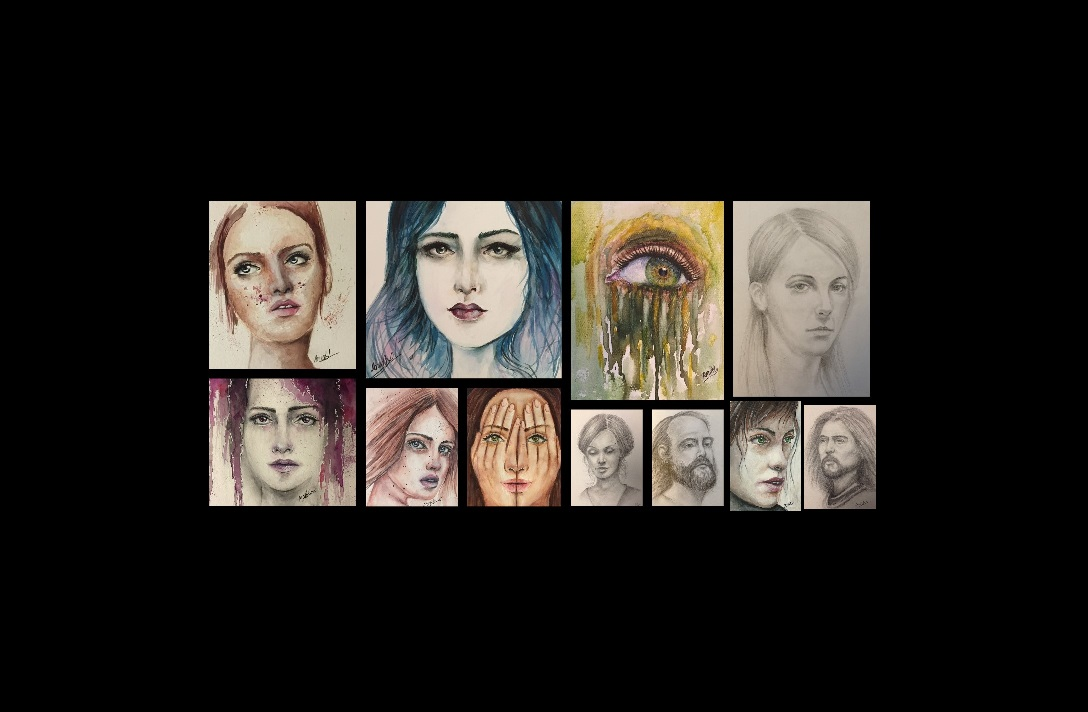
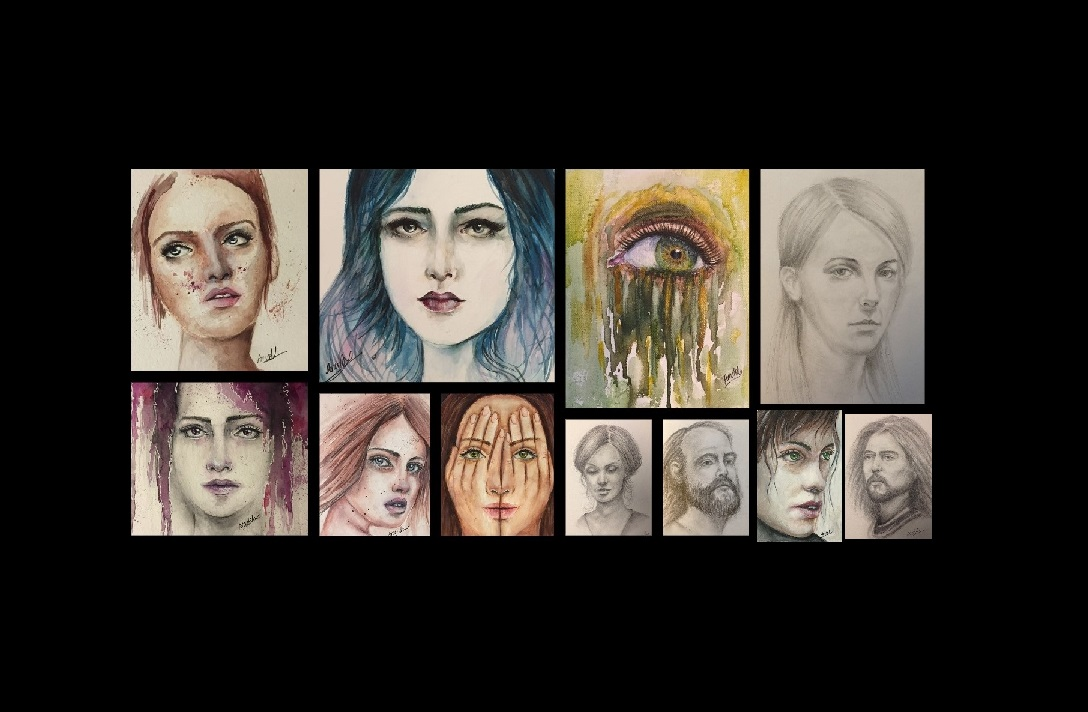
Menu bar modified

diff --git a/index.html b/index.html
@@ -80,7 +80,7 @@
     background-size: cover;
     min-height:100%;
     background-image: url('collage-black-big.jpg'); 
-    opacity: 0.8;
+    opacity: 0.6;
            
     }
       
@@ -92,7 +92,7 @@
     background-size: cover;
     min-height:100%;
     background-image: url('collage-black-small.jpg'); 
-    opacity: 0.8;
+    opacity: 0.6;
            
     }
       
@@ -110,10 +110,19 @@
     } 
       }
       
+    @media (min-width: 768px) {
+  .navbar-nav.navbar-center {
+    position: absolute;
+    left: 50%;
+    transform: translatex(-50%);
+  }
+}
+      
      
   </style>
 </head>
 <body>
+
 
 <nav class="navbar navbar-inverse">
   <div class="container-fluid" >
@@ -123,16 +132,16 @@
         <span class="icon-bar"></span>
         <span class="icon-bar"></span>  
       </button>
-      <a class="navbar-brand" href="#"><span style="font-family:Brush Script MT,cursive ; font-size: 1.5em">Arasteh</span></a>       
+      <span class="navbar-brand" style="font-family:Brush Script MT,cursive ; font-size: 2em">Arasteh</span>      
     </div>
       
     <div class="collapse navbar-collapse" id="myNavbar">
-      <ul class="nav navbar-nav">
+      <ul class="nav navbar-nav navbar-center">
         <li class="active"><a href="#">Home</a></li>
-        <li><a href="#about">About</a></li>
+        <li><a href="#about" ><i class="fa fa-user"></i> About</a></li>
         
         <li class="dropdown">
-        <a class="dropdown-toggle" data-toggle="dropdown" href="#">Gallery
+        <a class="dropdown-toggle" data-toggle="dropdown" href="#"><i class="fa fa-th"></i> Gallery
         <span class="caret"></span></a>
         <ul class="dropdown-menu">
           <li><a href="drawings.html">Pencil Drawings</a></li>
@@ -151,27 +160,14 @@
 
     
     
-<!-- new Parallax Image -->  
-<div class="container-fluid bgimg1 w3-hide-small  " id="home">
-    <!--
-    <div class="row parallaxtxt">
-        <div class="col-sm-12" style= "margin:20% 0 0 20%;">
-            <span style="font-size:3em;font-family:Brush Script MT,cursive;color:white">The purpose of art is washing the dust of daily life off our souls.
-            </span><br><span style="font-size:1.5em;font-family:Brush Script MT, cursive;color:white">Pablo Picasso</span>
-        </div> 
-    </div>
-    -->
+<!-- Parallax Image for big and medium screen -->  
+<div class="container-fluid bgimg1 w3-hover-opacity-off w3-hide-small  " id="home">
+   
 </div>  
-    
-<div class="container-fluid bgimg2 w3-hide-medium w3-hide-large " id="home">
-    <!--
-    <div class="row parallaxtxt">
-        <div class="col-sm-12" style= "margin:20% 0 0 20%;">
-            <span style="font-size:3em;font-family:Brush Script MT,cursive;color:white">The purpose of art is washing the dust of daily life off our souls.
-            </span><br><span style="font-size:1.5em;font-family:Brush Script MT, cursive;color:white">Pablo Picasso</span>
-        </div> 
-    </div>
-    -->
+
+<!-- Parallax Image for small screen -->     
+<div class="container-fluid bgimg2 w3-hover-opacity-off w3-hide-medium w3-hide-large " id="home">
+   
 </div>   
 <!-- end new Parallax Image -->
     

diff --git a/test.html b/test.html
@@ -14,30 +14,49 @@ body, html {
     line-height: 1.8;
 }
 
-/* Create a Parallax Effect */
-.bgimg-1 {
-    background-attachment: fixed;
-    background-position: center;
-    background-repeat: no-repeat;
-    background-size: cover;
-}
-
-/* First image (Logo. Full height) */
-.bgimg-1 {
-    background-image: url('Collage%20big-resized.jpg');
-    min-height: 100%;
-}
 
 
 .w3-wide {letter-spacing: 10px;}
 .w3-hover-opacity {cursor: pointer;}
 
-/* Turn off parallax scrolling for tablets and phones */
-@media only screen and (max-device-width: 1024px) {
-    .bgimg-1 {
-        background-attachment: scroll;
+.bgimg1 {
+    
+    background-attachment:fixed;
+    background-position: center;
+    background-repeat: no-repeat;
+    background-size: cover;
+    min-height:100%;
+    background-image: url('collage-black-big-caption.jpg'); 
+    opacity: 0.8;
+           
     }
-}
+      
+    .bgimg2 {
+    
+    background-attachment:fixed;
+    background-position: center;
+    background-repeat: no-repeat;
+    background-size: cover;
+    min-height:100%;
+    background-image: url('collage-black-small-caption.jpg'); 
+    opacity: 0.8;
+           
+    }
+      
+      
+    @media only screen and (max-device-width: 1024px) {
+    .bgimg1,.bgimg2 {
+        background-attachment: scroll;
+    } 
+      }
+      
+   @media only screen and and (min-device-width : 320px) and (max-device-width : 480px) {
+    bgimg1,.bgimg2 {
+        
+        background-attachment: fixed;
+    } 
+      }
+    
 </style>
 <body>
 
@@ -93,12 +112,17 @@ body, html {
   </div>
 </div>
 
-<!-- First Parallax Image with Logo Text -->
-<div class="bgimg-1 w3-display-container w3-opacity-min"  id="home">
-  <div class="w3-display-middle " style="white-space:nowrap;">
-    <span class="w3-center w3-padding-large  w3-text-white w3-xxxlarge w3-wide w3-animate-opacity" style="font-family:Brush Script MT,cursive ; font-size:1.5em" ></span>
-  </div>
+<!-- Parallax Image for big and medium screen -->  
+<div class="bgimg1 w3-display-container w3-opacity-min w3-hide-small"  id="home">
+ 
 </div>
+
+<!-- Parallax Image for small screen -->  
+<div class="bgimg2 w3-display-container w3-opacity-min w3-hide-medium w3-hide-large"  id="home">
+ 
+</div>    
+    
+  
 
 <!-- Container (About Section) -->
 <div class="w3-content w3-container w3-padding-64" id="about">
